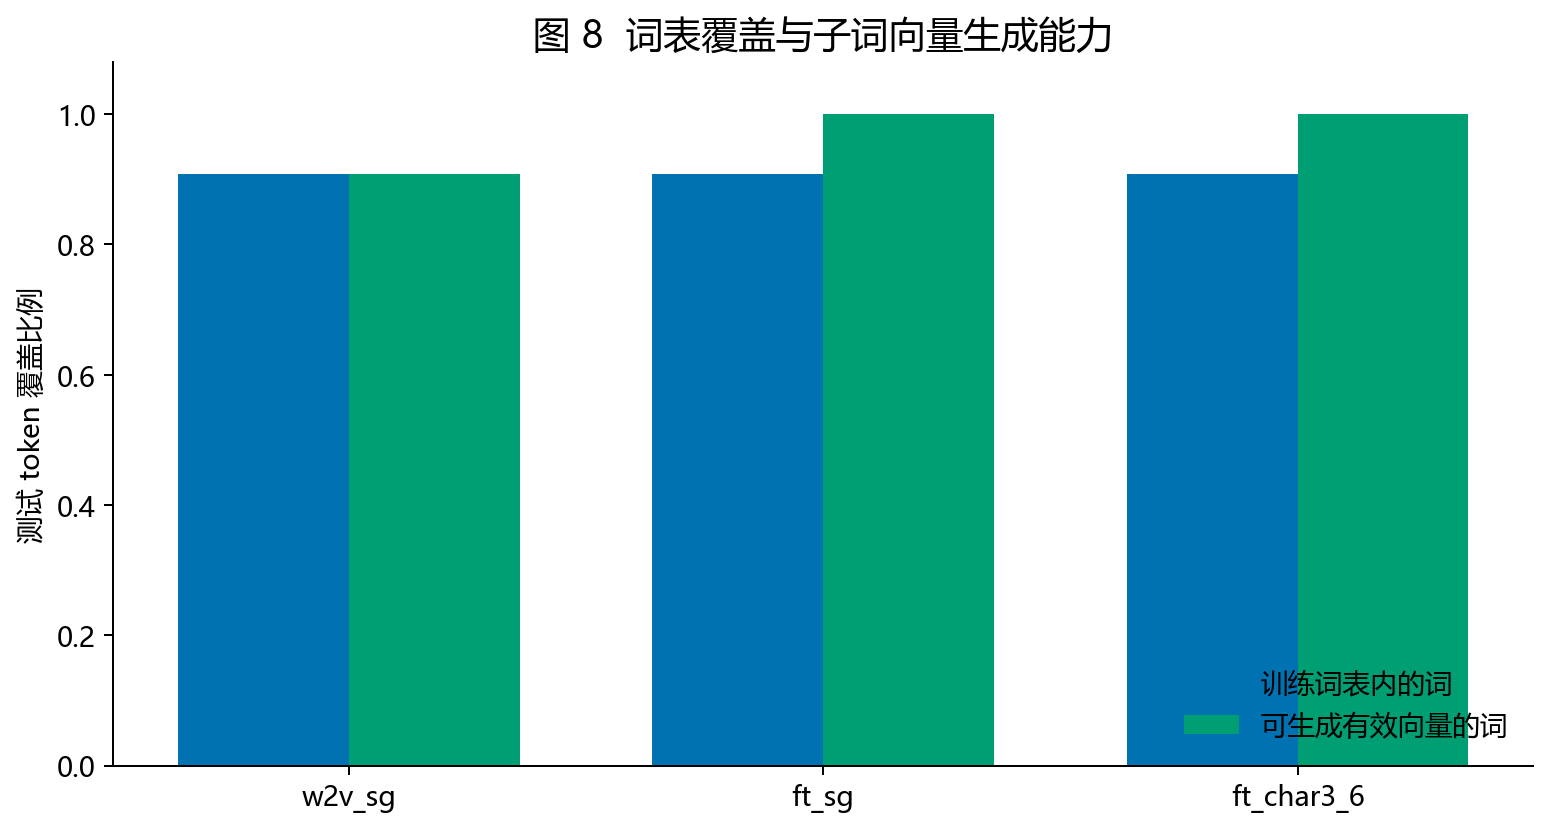
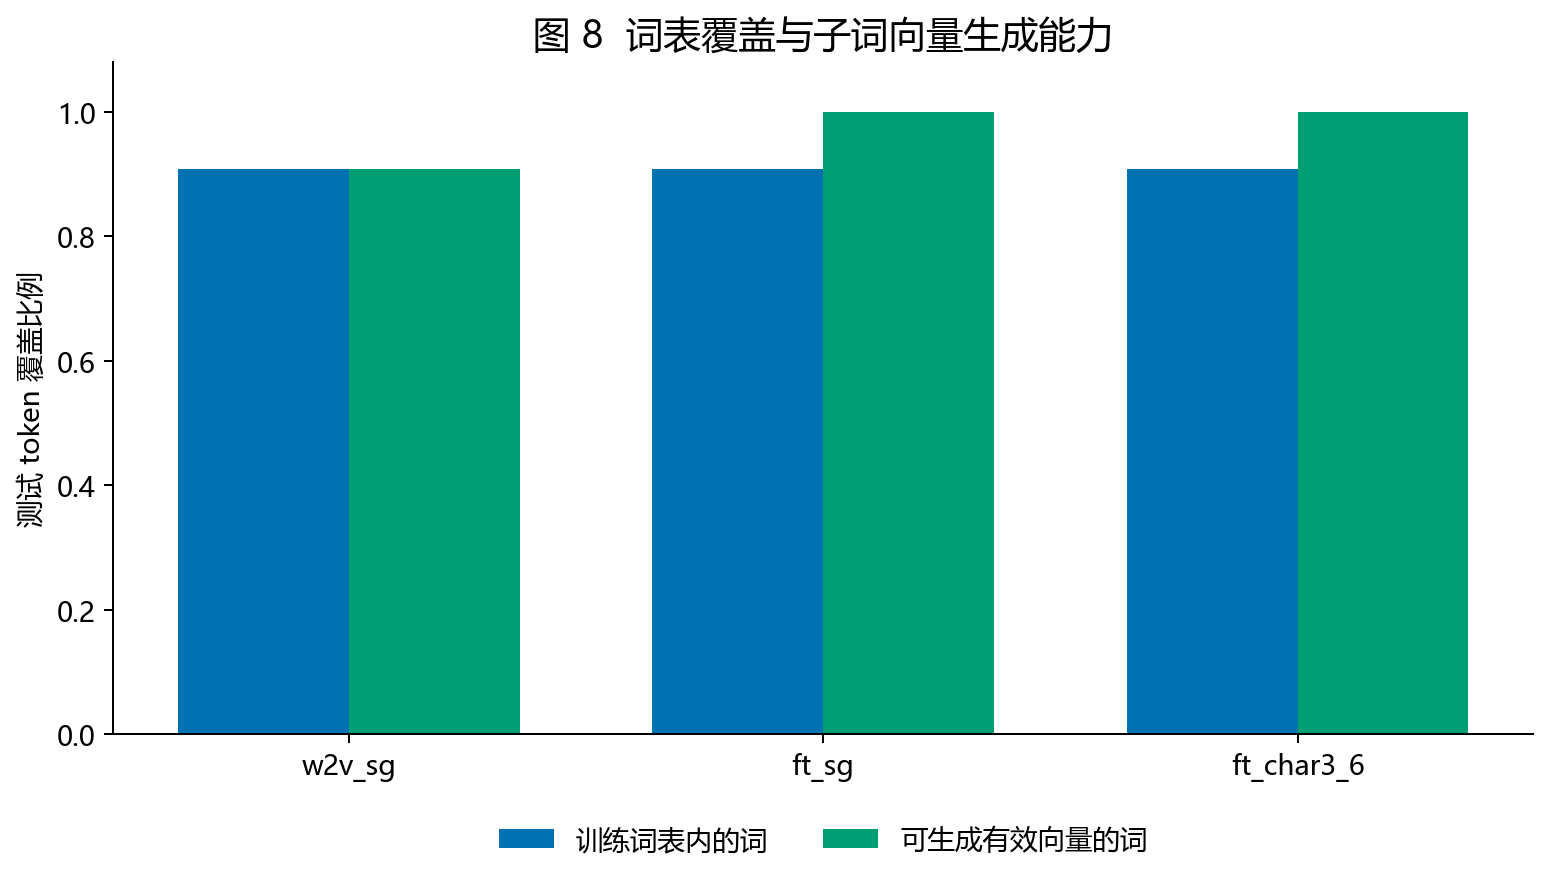
Place OOV coverage legend below the plot

diff --git a/hw2/src/newsvec/visualize.py b/hw2/src/newsvec/visualize.py
@@ -137,7 +137,7 @@ def plot_all(config):
 
     coverage = read_json(ROOT / "results/coverage.json")
     selected_names = ["w2v_sg", "ft_sg", "ft_char3_6"]
-    fig, ax = plt.subplots(figsize=(8.5, 4.5), layout="constrained")
+    fig, ax = plt.subplots(figsize=(8.5, 4.8), layout="constrained")
     x = np.arange(3)
     ax.bar(x - .18, [1 - coverage[n]["test"]["vocab_oov_rate"] for n in selected_names], width=.36,
            label="训练词表内的词", color=COLORS[0])
@@ -145,7 +145,7 @@ def plot_all(config):
            label="可生成有效向量的词", color=COLORS[2])
     ax.set(xticks=x, xticklabels=selected_names, ylim=(0, 1.08), ylabel="测试 token 覆盖比例",
            title="图 8  词表覆盖与子词向量生成能力")
-    ax.legend(frameon=False, loc="lower right")
+    ax.legend(frameon=False, loc="upper center", bbox_to_anchor=(0.5, -0.10), ncol=2)
     save(fig, "08_oov_coverage")
 
     packed = np.load(ROOT / "results/features/dense_projection.npz")
